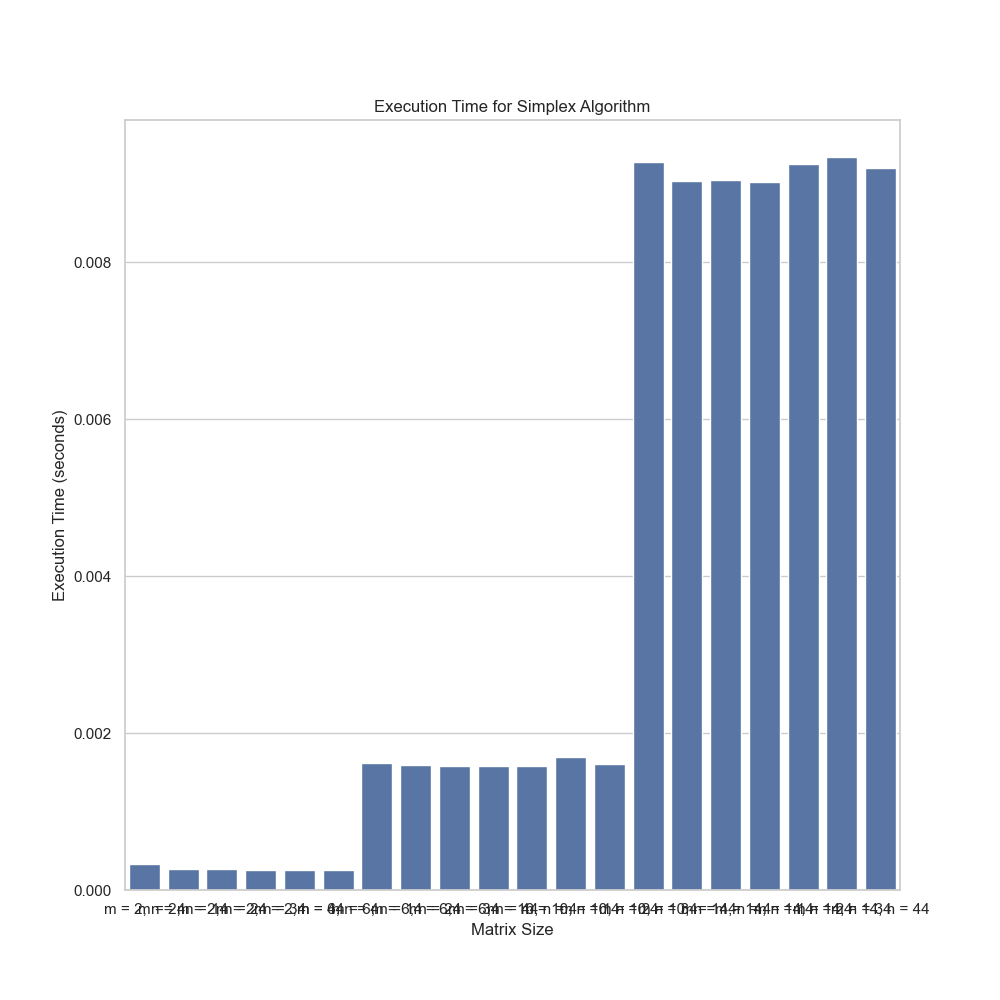
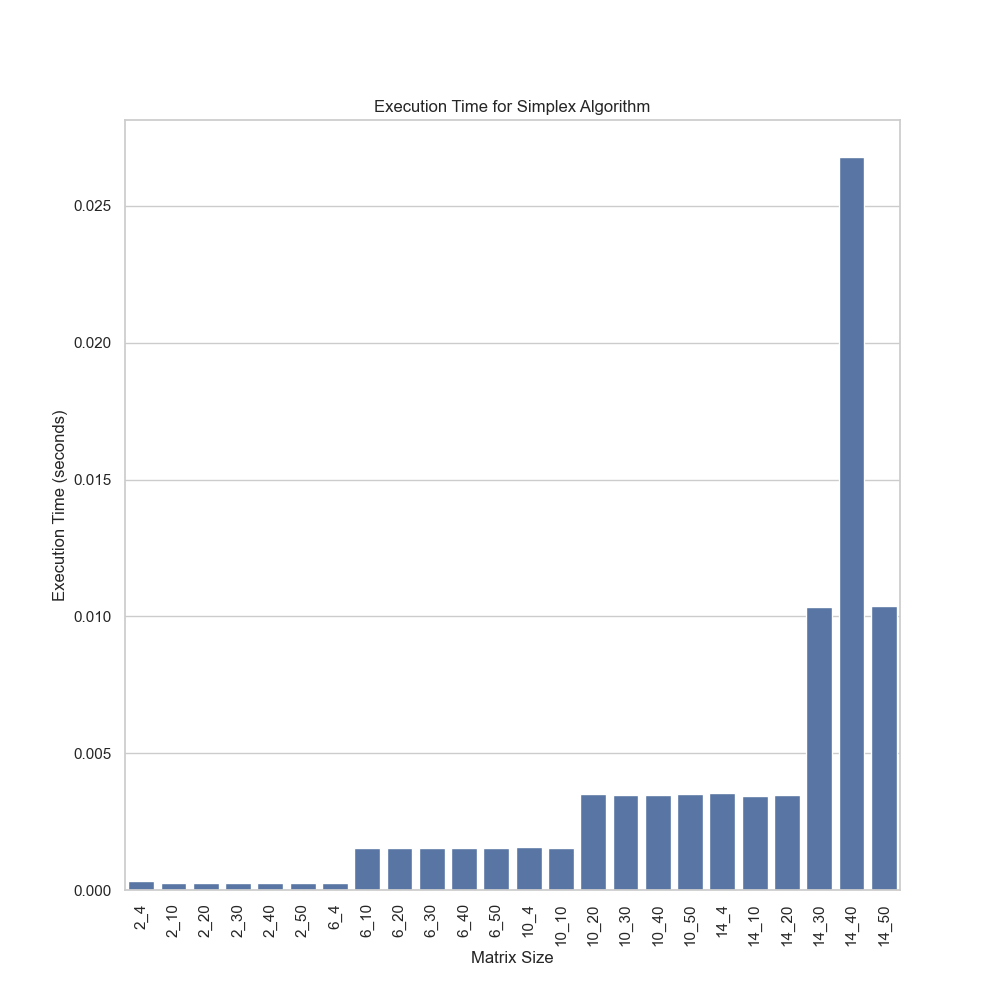
Fixed increment and graph
Fixed how we increment n in relation to m. Should be 4, 10 .. 50. Code was initially doing 4, 14, 24, etc.
Fixed plot x axis labels to be at 90 and easier to read

diff --git a/miniproject.py b/miniproject.py
@@ -3,7 +3,7 @@ import seaborn as sns
 import matplotlib.pyplot as plt
 from simplex import SimplexSolver
 
-# set the seed for the random number generator to 42 so that we get the same random numbers every time
+# set the seed for the random number generator to 42 so that we replicate the same results
 random.seed(42)
 
 def grow_A(A, grow_to_m, grow_to_n):
@@ -43,8 +43,20 @@ def base_data():
 
     return A, b, c
 
+def simplex(A, b, c, m, n):
+    # run simplex
+    suffix = "_m" + str(m) + "_n" + str(n)
+    start_time = time.time()
+    solution = SimplexSolver().run_simplex(A, b, c, prob="min", enable_msg=False, latex=False, suffix=suffix)
+    end_time = time.time()
+    
+    duration = end_time - start_time
+    key = f"{m}_{n}"
+    stats[key] = duration
+    print(f"Execution time for m = {m} and n = {n}:", duration, "seconds")
+
 # m from 2 to 6 to 10 to 14. (in increments of 4)
-# n from 4 to 10 to 50. (in increments of 10)
+# n from 4 to 10 ... 50. (in increments of 10)
 
 # prime the base data
 A, b, c = base_data()
@@ -52,24 +64,20 @@ A, b, c = base_data()
 stats = {}
 # for loop for m from 2 to 14 in increments of 4
 for m in range(2, 15, 4):
+    # for ever m we need to run the simplex for 4 variables 
+    # before jumping to 10 and incrementing by 10 up to 50
+    # as per the instructions
+    simplex(A, b, c, m, 4)
+
     # for loop for n from 4 to 50 in increments of 10
-    for n in range(4, 51, 10):
+    for n in range(10, 51, 10):
         # grow the data
         A = grow_A(A, m, n)
         b = grow_b(b, m)
         c = grow_c(c, n)
-        
-        # run simplex
-        suffix = "_m" + str(m) + "_n" + str(n)
-        start_time = time.time()
-        solution = SimplexSolver().run_simplex(A, b, c, prob="min", enable_msg=False, latex=False, suffix=suffix)
-        end_time = time.time()
-        
-        duration = end_time - start_time
-        key = f"m = {m}, n = {n}"
-        stats[key] = duration
-        print(f"Execution time for m = {m} and n = {n}:", duration, "seconds")
-        
+    
+        simplex(A, b, c, m, n)
+
 # set the style of the plot
 sns.set_theme(style="whitegrid")
 
@@ -80,11 +88,10 @@ plt.figure(figsize=(10, 10))
 plt.title("Execution Time for Simplex Algorithm")
 plt.xlabel("Matrix Size")
 plt.ylabel("Execution Time (seconds)")
+plt.xticks(rotation=90)
 
 # create a bar plot using the stats dictionary
 sns.barplot(x=list(stats.keys()), y=list(stats.values()))
 
 # save the plot to a file and display it
 plt.savefig("execution_time.png")
-plt.show()
-
